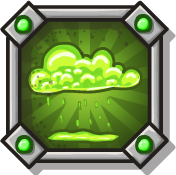
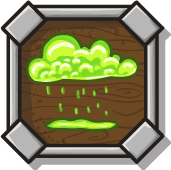
add acide cloud spell animation and spell images

diff --git a/pTowerDefense/src/view/vGameBoard.cpp b/pTowerDefense/src/view/vGameBoard.cpp
@@ -21,9 +21,14 @@ vGameBoard::vGameBoard(RenderWindow& window)
 vGameBoard::~vGameBoard()
 {
     //dtor
-    for(vEnnemy *enemy: listOfvEnnemies)
+    for(vEnnemy *venemy: listOfvEnnemies)
     {
-        delete enemy;
+        delete venemy;
+    }
+
+    for(Sprite *acide: listOfAcideCloudSpell)
+    {
+        delete acide;
     }
 }
 
@@ -85,6 +90,14 @@ void vGameBoard::launchWave(int numberOfEnnemies)
         listOfvEnnemies.push_back(venemy);
     }
 
+
+    for(int i=0; i < 10; i++)
+    {
+        listOfAcideCloudSpell.push_back(new Sprite());
+    }
+
+
+
     cout << game.getMap()->getEnemies().size() << endl;
     cout << game.getMap()->strEnemies() << endl;
 
@@ -110,6 +123,11 @@ void vGameBoard::InputHandler(Event event, RenderWindow *window)
         if (event.mouseButton.button == Mouse::Right)
         {
               cout << "right click"<< endl;
+
+             if(isSpriteClicked(acideCloudSprite) == 1)
+            {
+
+            }
         }
     }
 
@@ -166,6 +184,15 @@ void vGameBoard::loadSprite()
              listOfvEnnemies[i]->getSprite()->setPosition(Vector2f(10, 575));
              listOfvEnnemies[i]->getSprite()->setScale(0.28f,0.28f);
         }
+    }
+
+    for(int i=0; i < NUMBER_ACIDE_SPELL ; i++)
+    {
+        listOfAcideCloudSpell.push_back(new Sprite());
+        listOfAcideCloudSpell[i]->setTexture(acideCloudEffectTexture);
+        listOfAcideCloudSpell[i]->setTextureRect(IntRect(0,0,909,2398));
+        listOfAcideCloudSpell[i]->setPosition(Vector2f(i*98, 240));
+        listOfAcideCloudSpell[i]->setScale(0.17f,0.17f);
     }
 
 
@@ -225,6 +252,8 @@ bool vGameBoard::drawEntities()
     windowFromMain->draw(earthTowerSprite);
 
 
+
+
     // enemies spawn one per one
     if(spawnClock.getElapsedTime().asSeconds() > spawnTime && idSpawn < (int)listOfvEnnemies.size())
     {
@@ -242,15 +271,20 @@ bool vGameBoard::drawEntities()
         }
     }
 
+    for(int i=0; i < NUMBER_ACIDE_SPELL ; i++)
+    {
+        windowFromMain->draw(*listOfAcideCloudSpell[i]);
+    }
+
     return true;
 
 }
 
 //fonction for actionEvent on Buttons Sprite
-bool vGameBoard::isSpriteClicked (Sprite &spr, RenderWindow &window )
+bool vGameBoard::isSpriteClicked (Sprite &spr)
 {
     //take the position of the mouse
-    Vector2i mousePos = Mouse::getPosition(window);
+    Vector2i mousePos = Mouse::getPosition(*windowFromMain);
 
     //condition if it is in the sprite
 	if(mousePos.x > spr.getPosition().x
@@ -329,6 +363,18 @@ void vGameBoard::animationEnemyWalk()
             x_knight++;
         }
 
+         if(x_acide*909 >= (int)acideCloudEffectTexture.getSize().x - 909)
+        {
+            x_acide = 0;
+        }
+        else
+        {
+            x_acide++;
+        }
+
+
+
+
         //for the deplacement
         for(int i=0;i< (int)listOfvEnnemies.size();i++)
         {
@@ -337,6 +383,8 @@ void vGameBoard::animationEnemyWalk()
                  listOfvEnnemies[i]->getSprite()->move(WALK_SPEED,0);
             }
         }
+
+
 
         animClock.restart();
     }
@@ -377,6 +425,14 @@ void vGameBoard::adaptAnimationSprite()
              listOfvEnnemies[i]->getSprite()->setTextureRect(IntRect(x_gremlin*GREMLIN_WIDTH,y_gremlin*GREMLIN_HEIGHT,GREMLIN_WIDTH,GREMLIN_HEIGHT));
         }
      }
+
+     for(size_t i=0;i<listOfAcideCloudSpell.size();i++)
+     {
+        listOfAcideCloudSpell[i]->setTextureRect(IntRect(x_acide*909,0,909,2938));
+     }
+
+
+
 }
 
 /* to verify if all images is accessible and charge in the texture */
@@ -481,6 +537,14 @@ bool vGameBoard::verifyImageMapEntities()
          cout << "ERROR chargement texture" << endl;
          return false;
     }
+
+    if (!acideCloudEffectTexture.loadFromFile("res/images/sprites/spells/acideCloud.png"))
+    {
+         cout << "ERROR chargement texture" << endl;
+         return false;
+    }
+
+
 
 
     return true;

diff --git a/pTowerDefense/include/view/vGameBoard.h b/pTowerDefense/include/view/vGameBoard.h
@@ -33,7 +33,7 @@ class vGameBoard
 
         bool drawEntities();
         void InputHandler(Event event, RenderWindow *window);
-        bool isSpriteClicked (Sprite &spr, RenderWindow &window);
+        bool isSpriteClicked (Sprite &spr);
 
         //methods
         void launchGame();
@@ -70,6 +70,8 @@ class vGameBoard
         const int KNIGHTOFDEATH_WIDTH = 445;
         const int KNIGHTOFDEATH_HEIGHT = 469;
 
+        const int NUMBER_ACIDE_SPELL = 14;
+
         const int WALK_SPEED = 3;
 
         int idSpawn = 0;
@@ -78,6 +80,9 @@ class vGameBoard
         //std::vector<Sprite*> enemiesSprite;
         std::vector<vEnnemy*> listOfvEnnemies;
         std::vector<vTower*> listOfvTower;
+        std::vector<Sprite*> listOfAcideCloudSpell;
+        std::vector<Sprite*> listOfFireSpell;
+        std::vector<Sprite*> listOfLigntningSpell;
 
         //x and y serve to reset the animation of sprites in fonction of diffrents size of sprite
         int x_Ogre = 0;
@@ -94,6 +99,8 @@ class vGameBoard
 
         int x_knight = 0;
         int y_knight = 0;
+
+        int x_acide = 0;
 
         Clock animClock;
         Clock spawnClock;
@@ -120,6 +127,8 @@ class vGameBoard
         Texture acideCloudTexture;
         Texture lightningTexture;
         Texture fireTexture;
+
+        Texture acideCloudEffectTexture;
 
         //Towers textures
         /* without number = icon button*/
